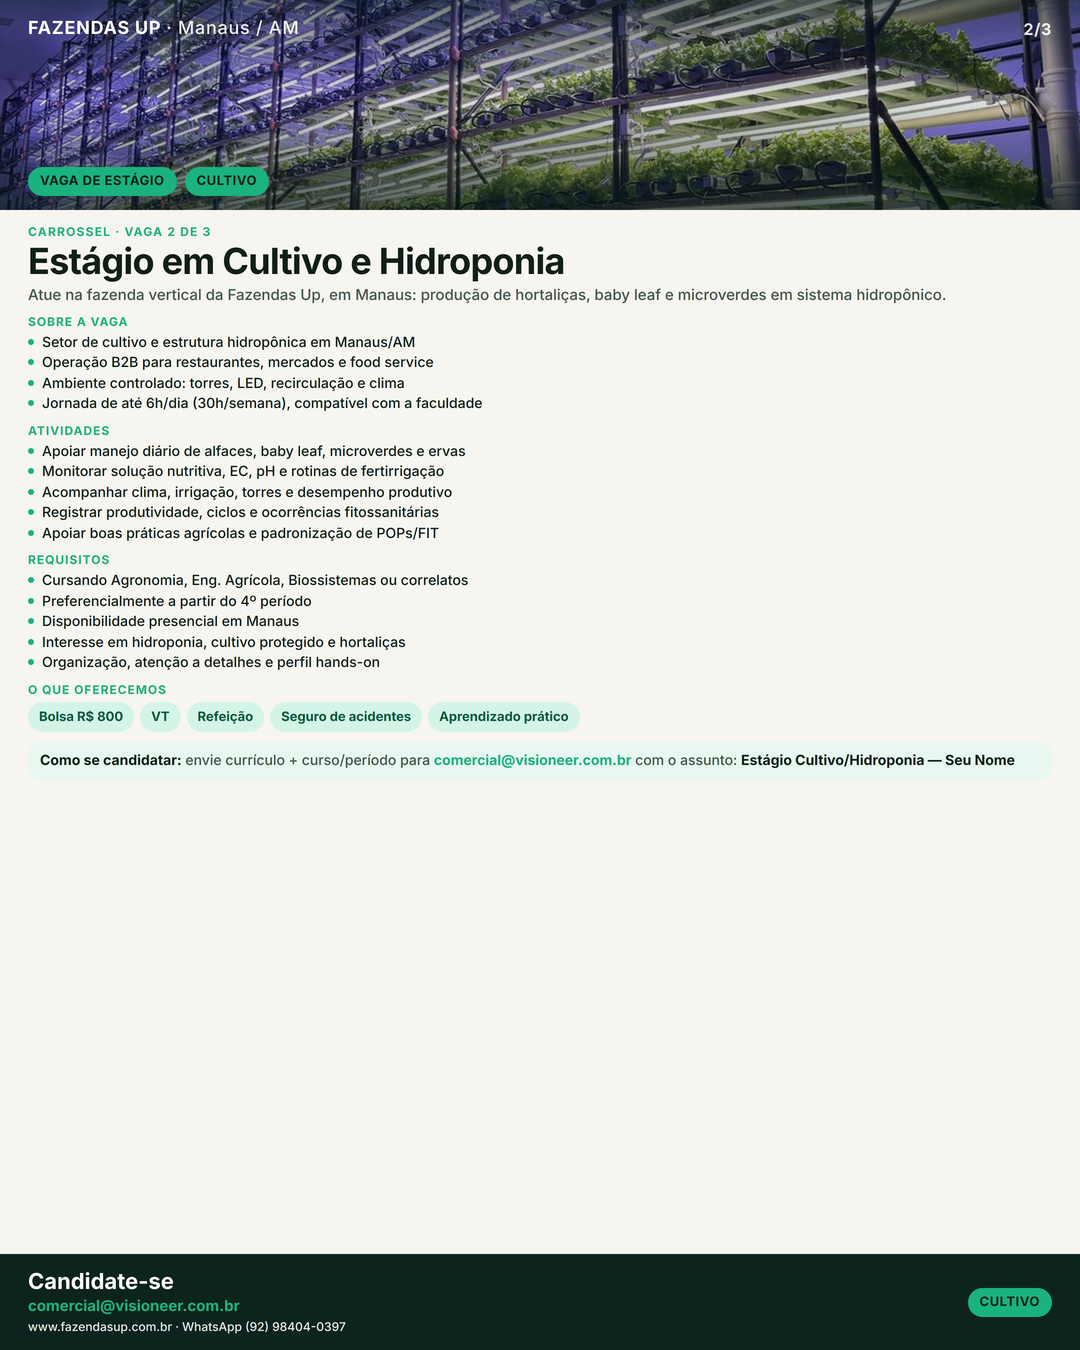
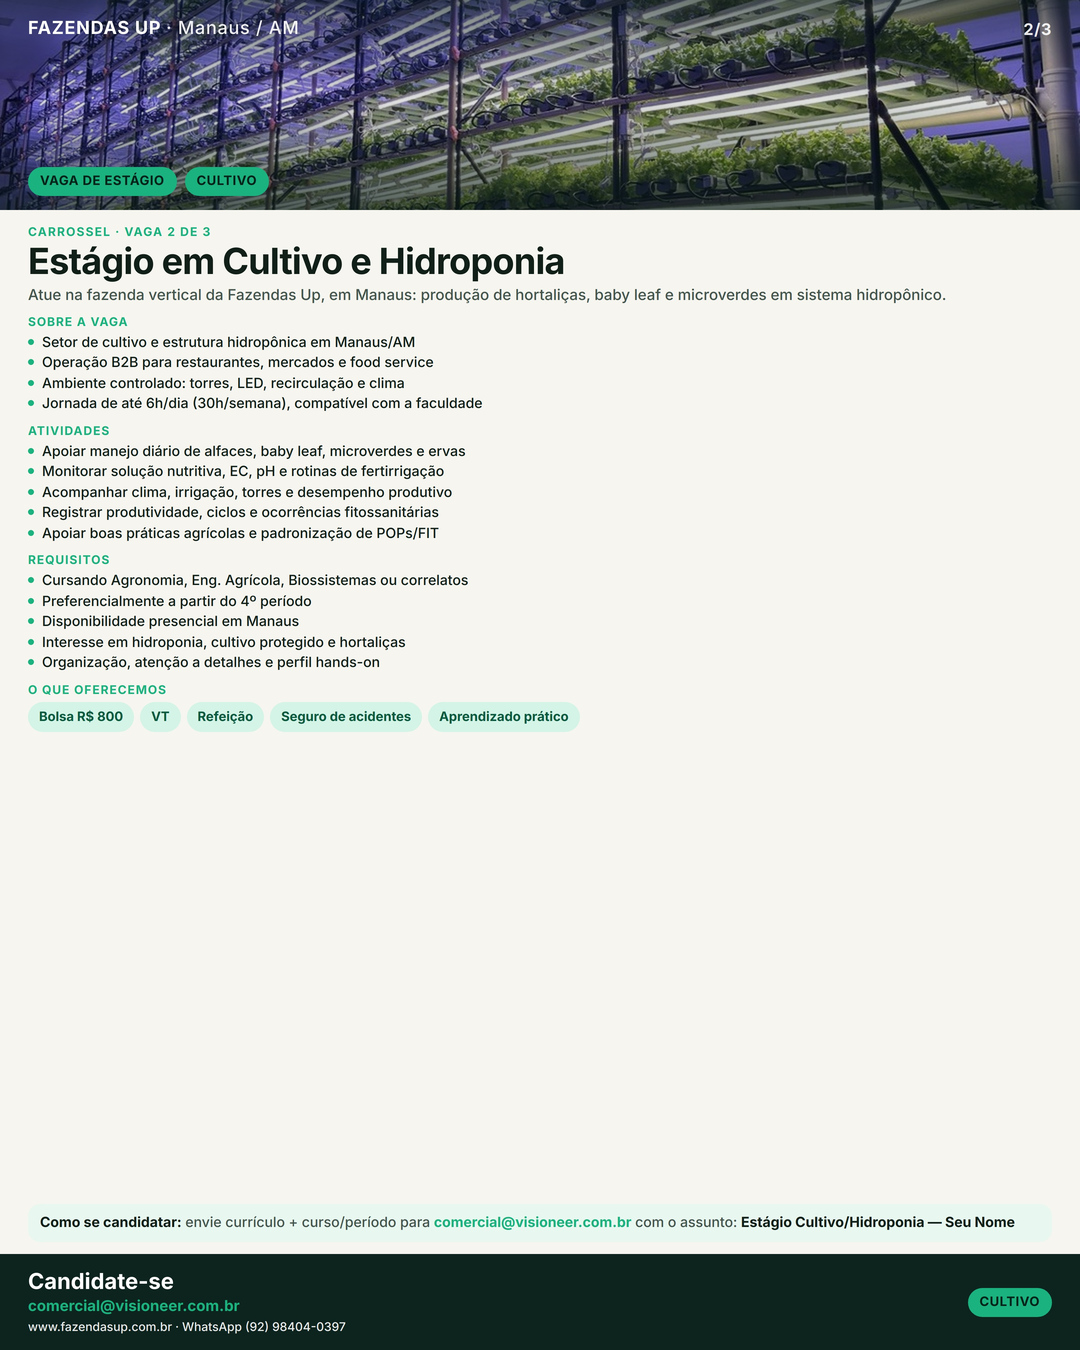
fix: ancorar CTA no fim do conteúdo para fechar o vão

diff --git a/client/public/instagram-estagios/index.html b/client/public/instagram-estagios/index.html
@@ -27,16 +27,16 @@
     Salve as 3 imagens nesta ordem e publique como <b>um carrossel</b> no feed.
   </div>
   <div class="grid">
-    <a class="card" href="01-admin.jpg?v=mwtgnyk5" download="01-admin.jpg">
-      <img src="01-admin.jpg?v=mwtgnyk5" alt="Estágio em Administração" loading="lazy" />
+    <a class="card" href="01-admin.jpg?v=mwtgp5nn" download="01-admin.jpg">
+      <img src="01-admin.jpg?v=mwtgp5nn" alt="Estágio em Administração" loading="lazy" />
       <div class="meta">01/03 · ADMIN<small>Estágio em Administração — Salvar</small></div>
     </a>
-    <a class="card" href="02-cultivo.jpg?v=mwtgnyk5" download="02-cultivo.jpg">
-      <img src="02-cultivo.jpg?v=mwtgnyk5" alt="Estágio em Cultivo e Hidroponia" loading="lazy" />
+    <a class="card" href="02-cultivo.jpg?v=mwtgp5nn" download="02-cultivo.jpg">
+      <img src="02-cultivo.jpg?v=mwtgp5nn" alt="Estágio em Cultivo e Hidroponia" loading="lazy" />
       <div class="meta">02/03 · CULTIVO<small>Estágio em Cultivo e Hidroponia — Salvar</small></div>
     </a>
-    <a class="card" href="03-qualidade.jpg?v=mwtgnyk5" download="03-qualidade.jpg">
-      <img src="03-qualidade.jpg?v=mwtgnyk5" alt="Estágio em Processamento e Qualidade" loading="lazy" />
+    <a class="card" href="03-qualidade.jpg?v=mwtgp5nn" download="03-qualidade.jpg">
+      <img src="03-qualidade.jpg?v=mwtgp5nn" alt="Estágio em Processamento e Qualidade" loading="lazy" />
       <div class="meta">03/03 · QUALIDADE<small>Estágio em Processamento e Qualidade — Salvar</small></div>
     </a></div>
 </body>
